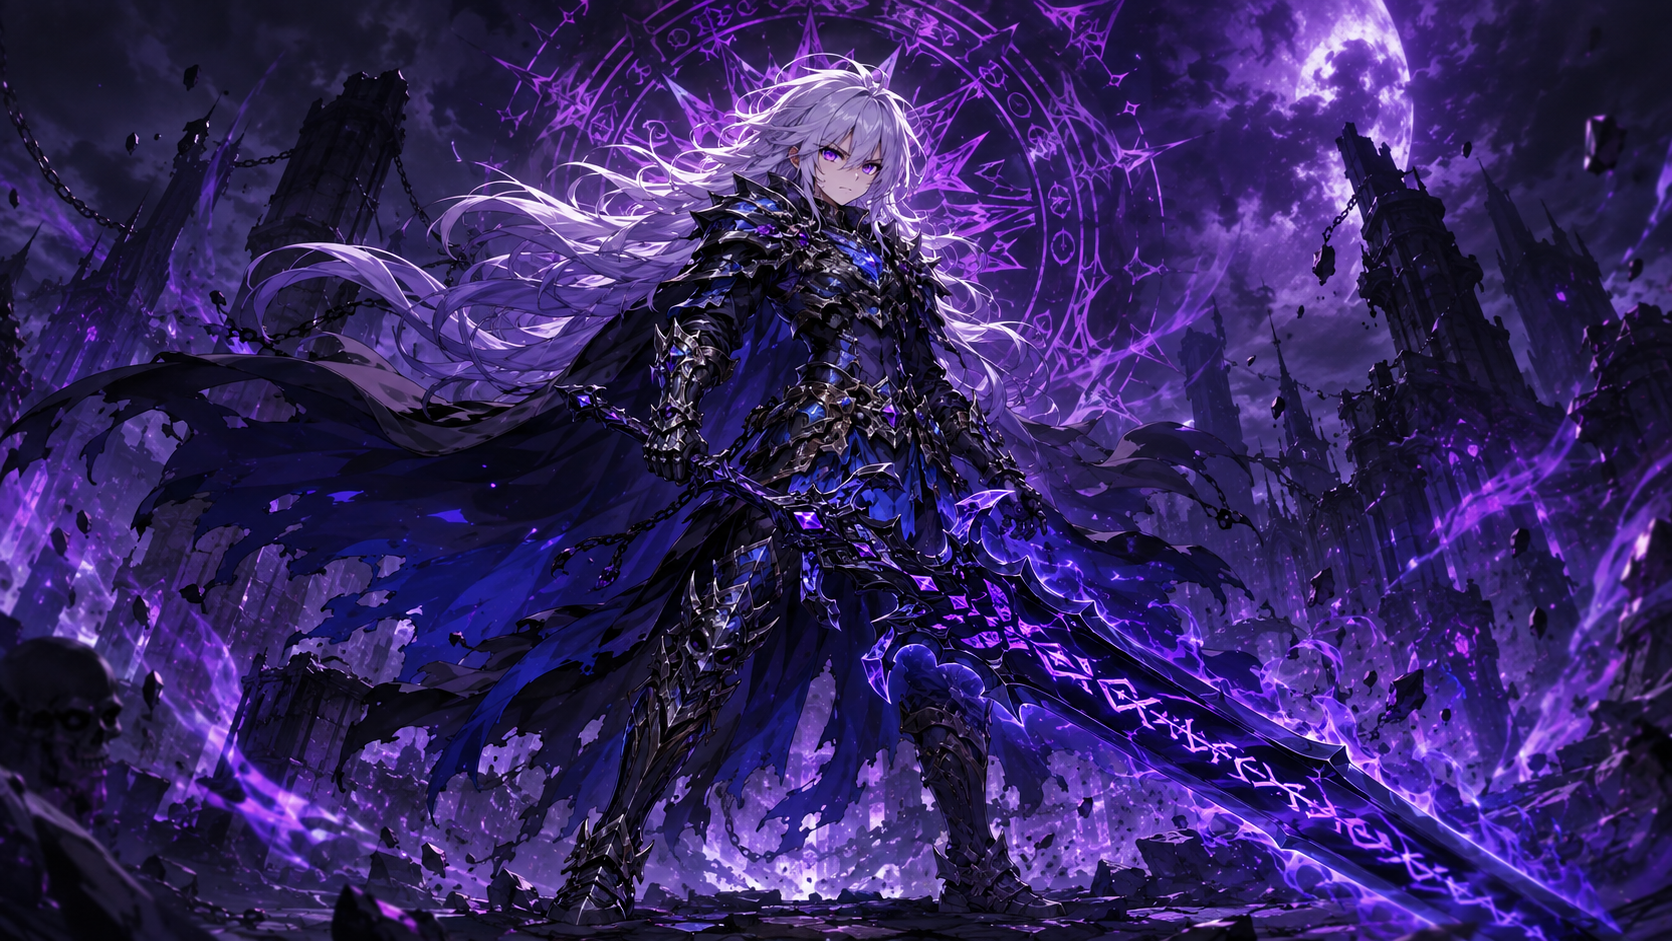
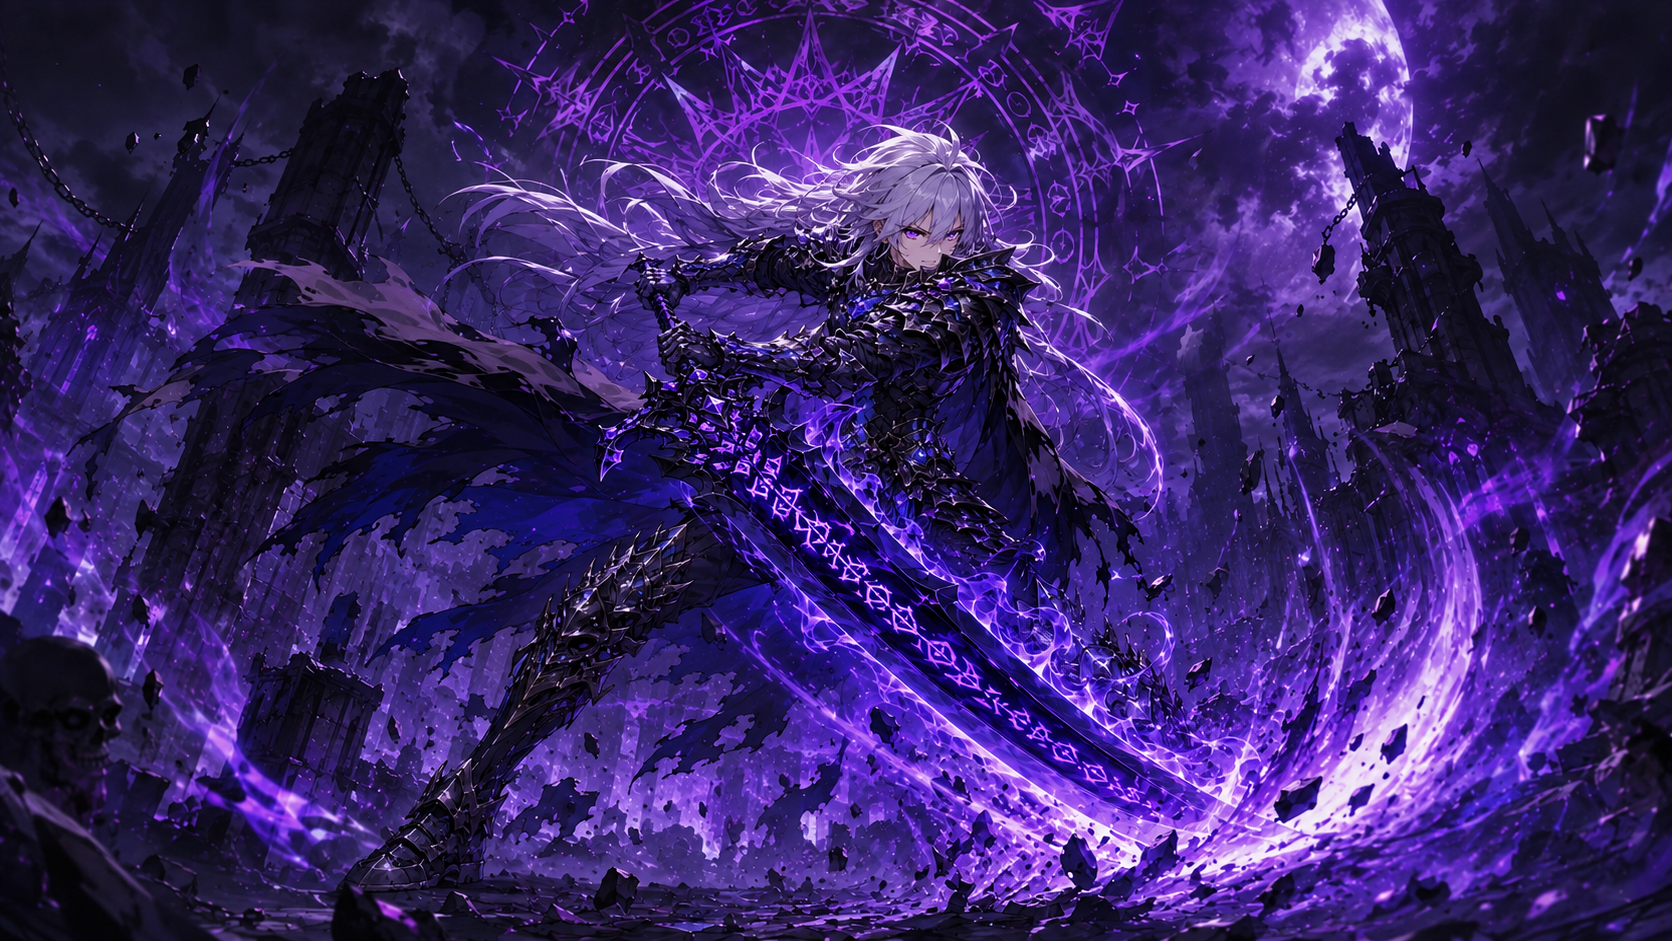
死亡騎士立繪換新版主視覺 + 關卡地圖改用真實手繪節點對位地圖 (v4.21.2-4.22.0)
- death_knight 立繪全遊戲替換為新版主視覺，重新校正臉部裁切位置
- 森林遺跡關卡地圖改用 4 張手繪節點對位地圖當背景，20 關座標逐一量測對齊，
  取代先前純 CSS 畫的蛇形路徑與連接線

diff --git a/src/screens/CampaignMapScreen.tsx b/src/screens/CampaignMapScreen.tsx
@@ -20,11 +20,22 @@ const OBJECTIVE_ICON: Record<StageObjectiveType, AsterVowIconName> = {
   elimination: 'stage-elimination', survival: 'stage-survival', defense: 'stage-defense', hunt: 'stage-hunt',
   destroy: 'stage-destroy', collection: 'stage-collection', escape: 'stage-escape', boss: 'stage-boss',
 }
-// 蜿蜒路徑左右交錯的位置循環，跟星界圖鑑預覽用的排法一致
-const MAP_POSITIONS = ['center', 'right', 'left', 'right', 'left', 'center'] as const
-// 節點實際貼齊的橫向位置粗略換算成 0-100 座標，連接線斜著畫過去對到節點，
-// 不能寫死在正中央——上一版連線固定在 50%，節點改成貼邊之後線就對不上了。
-const MAP_POS_X: Record<(typeof MAP_POSITIONS)[number], number> = { left: 15, center: 50, right: 85 }
+// 森林遺跡節點對位地圖（2026-08）：4 張手繪地圖，每張對應 5 關，直接當
+// 背景鋪滿，節點座標是拿 10×15 網格逐張比對圖上空地中心讀出來的百分比，
+// 不是憑感覺排的——地圖本身的石板小徑已經把 20 個空地連成一條蜿蜒路徑，
+// 不需要再疊一層 CSS 畫的連接線。
+const MAP_SEGMENT_IMAGES = [
+  '/assets/campaign/forest_ruins_map_1.jpg',
+  '/assets/campaign/forest_ruins_map_2.jpg',
+  '/assets/campaign/forest_ruins_map_3.jpg',
+  '/assets/campaign/forest_ruins_map_4.jpg',
+]
+const STAGE_MAP_POS: Record<number, { x: number; y: number }> = {
+  1: { x: 43, y: 16 }, 2: { x: 70, y: 27 }, 3: { x: 27, y: 35 }, 4: { x: 72, y: 57 }, 5: { x: 28, y: 75 },
+  6: { x: 40, y: 9 }, 7: { x: 37, y: 30 }, 8: { x: 72, y: 45 }, 9: { x: 27, y: 58 }, 10: { x: 62, y: 83 },
+  11: { x: 32, y: 8 }, 12: { x: 57, y: 28 }, 13: { x: 38, y: 47 }, 14: { x: 68, y: 65 }, 15: { x: 30, y: 85 },
+  16: { x: 27, y: 20 }, 17: { x: 68, y: 16 }, 18: { x: 50, y: 43 }, 19: { x: 27, y: 65 }, 20: { x: 70, y: 83 },
+}
 
 /** 大廳關卡預覽卡（2026-08）共用這個星數列，見 AdventureReadyScreen.tsx。 */
 export function StarRow({ stars }: { stars: number }) {
@@ -77,39 +88,41 @@ export default function CampaignMapScreen({ meta, heroId, onSelectStage, onBack 
         </div>
       </div>
 
-      {/* 關卡地圖 2026-08 視覺重做：左右交錯往上爬的蜿蜒路徑（取代直式/
-          雙欄清單），最後一關（篇章最終王）額外套一層最大徽章樣式。解鎖／
-          三星進度資料完全沒動，只是排列方式改了。 */}
+      {/* 關卡地圖 2026-08 節點對位重做：4 張手繪地圖直接當每段背景，取代
+          先前純 CSS 畫的蜿蜒路徑。解鎖／三星進度資料完全沒動，只是節點改成
+          貼著地圖上量好的空地座標，路徑本身就是圖裡畫好的石板小徑。 */}
       <div className="cms-map">
-        {stages.map((stage, i) => {
-          const prog = getStageProgress(meta, stage.id)
-          const unlocked = isStageUnlocked(meta, stage.id)
-          const prevCleared = i === 0 || getStageProgress(meta, stages[i - 1].id).cleared
-          const isBoss = !!stage.boss
-          const isFinal = i === stages.length - 1
-          const pos = MAP_POSITIONS[i % MAP_POSITIONS.length]
-          const prevPos = i > 0 ? MAP_POSITIONS[(i - 1) % MAP_POSITIONS.length] : pos
+        {MAP_SEGMENT_IMAGES.map((imgSrc, seg) => {
+          const segStages = stages.slice(seg * 5, seg * 5 + 5)
+          if (segStages.length === 0) return null
           return (
-            <div key={stage.id} className={`cms-map-stage ${pos}`}>
-              {i > 0 && (
-                <svg className={`cms-map-connector${prevCleared ? ' lit' : ''}`} viewBox="0 0 100 100" preserveAspectRatio="none">
-                  <line x1={MAP_POS_X[prevPos]} y1="0" x2={MAP_POS_X[pos]} y2="100" />
-                </svg>
-              )}
-              <button
-                className={`cms-map-node${isFinal ? ' final' : isBoss ? ' boss' : ''}${unlocked ? '' : ' locked'}${prog.cleared ? ' cleared' : ''}`}
-                disabled={!unlocked}
-                onClick={() => unlocked && handleSelectStage(stage.id)}
-              >
-                <span className="cms-map-badge">
-                  {unlocked
-                    ? <AsterVowIcon name={isBoss ? 'stage-boss' : OBJECTIVE_ICON[stage.objective.type]} size={isFinal ? 30 : isBoss ? 24 : 18} />
-                    : <AsterVowIcon name="system-lock" size={18} />}
-                  {!isFinal && <span className="cms-map-num">{stage.stageNumber}</span>}
-                </span>
-                <span className="cms-map-name">{stage.name}</span>
-                {unlocked && <StarRow stars={prog.stars} />}
-              </button>
+            <div key={seg} className="cms-map-segment" style={{ backgroundImage: `url(${imgSrc})` }}>
+              {segStages.map((stage, localI) => {
+                const i = seg * 5 + localI
+                const prog = getStageProgress(meta, stage.id)
+                const unlocked = isStageUnlocked(meta, stage.id)
+                const isBoss = !!stage.boss
+                const isFinal = i === stages.length - 1
+                const pos = STAGE_MAP_POS[stage.stageNumber] ?? { x: 50, y: 50 }
+                return (
+                  <button
+                    key={stage.id}
+                    className={`cms-map-node${isFinal ? ' final' : isBoss ? ' boss' : ''}${unlocked ? '' : ' locked'}${prog.cleared ? ' cleared' : ''}`}
+                    style={{ left: `${pos.x}%`, top: `${pos.y}%` }}
+                    disabled={!unlocked}
+                    onClick={() => unlocked && handleSelectStage(stage.id)}
+                  >
+                    <span className="cms-map-badge">
+                      {unlocked
+                        ? <AsterVowIcon name={isBoss ? 'stage-boss' : OBJECTIVE_ICON[stage.objective.type]} size={isFinal ? 30 : isBoss ? 24 : 18} />
+                        : <AsterVowIcon name="system-lock" size={18} />}
+                      {!isFinal && <span className="cms-map-num">{stage.stageNumber}</span>}
+                    </span>
+                    <span className="cms-map-name">{stage.name}</span>
+                    {unlocked && <StarRow stars={prog.stars} />}
+                  </button>
+                )
+              })}
             </div>
           )
         })}

diff --git a/src/styles.css b/src/styles.css
@@ -5116,21 +5116,19 @@ h1, h2, h3, p { margin: 0; }
 }
 .cms-milestone-label { font-size: 0.68rem; color: #88a0c0; }
 
-/* 關卡地圖 2026-08 視覺重做：左右交錯往上爬的蜿蜒路徑，取代直式/雙欄清單 */
-.cms-map { position: relative; padding: 30px 16px 40px; }
-.cms-map-stage { position: relative; display: flex; align-items: center; margin-bottom: 22px; min-height: 64px; }
-/* 用 justify-content:flex-end/flex-start 把節點推到那一排的最右/最左（留一點
-   padding 當邊界），不是「往中間偏一點」——原本用 padding-left:44% 只比正中央
-   偏移了幾像素，跟 center 幾乎長得一樣，蛇形效果等於沒做出來。 */
-.cms-map-stage.right { justify-content: flex-end; padding-right: 6%; }
-.cms-map-stage.left { justify-content: flex-start; padding-left: 6%; }
-.cms-map-stage.center { justify-content: center; }
-.cms-map-connector { position: absolute; left: 0; right: 0; bottom: 100%; width: 100%; height: 22px; overflow: visible; }
-.cms-map-connector line { stroke: rgba(255,255,255,.2); stroke-width: 2; stroke-dasharray: 3 5; vector-effect: non-scaling-stroke; }
-.cms-map-connector.lit line { stroke: #ffd94a; }
+/* 關卡地圖 2026-08 節點對位重做：4 張手繪地圖（每張 5 關）直接當每段背景，
+   節點貼著圖上量好的空地座標用絕對定位疊上去，取代先前純 CSS 畫的蛇形路徑。
+   石板小徑是圖裡畫好的，不用再疊一層連接線。 */
+.cms-map { position: relative; display: flex; flex-direction: column; gap: 0; padding: 8px 0 24px; }
+.cms-map-segment {
+  position: relative; width: 100%; aspect-ratio: 1024 / 1536;
+  background-size: 100% 100%; background-repeat: no-repeat; background-position: center;
+  border-radius: 10px; overflow: hidden;
+}
 
 .cms-map-node {
-  position: relative; z-index: 1; display: flex; flex-direction: column; align-items: center; gap: 4px;
+  position: absolute; transform: translate(-50%, -50%); z-index: 1;
+  display: flex; flex-direction: column; align-items: center; gap: 4px;
   background: none; border: none; color: inherit; padding: 0; cursor: pointer;
 }
 .cms-map-badge {

diff --git a/src/styles/astralLegacyRebuild.css b/src/styles/astralLegacyRebuild.css
@@ -401,8 +401,6 @@
 .cms-milestone-label { color: var(--av-muted); }
 
 .cms-map { max-width: 620px; margin: 0 auto; }
-.cms-map-connector line { stroke: rgba(149, 192, 255, .3); }
-.cms-map-connector.lit line { stroke: var(--av-gold) !important; }
 .cms-map-badge { border-color: rgba(133, 174, 237, .42) !important; background: linear-gradient(145deg, rgba(18, 43, 84, .85), rgba(7, 18, 43, .92)) !important; }
 .cms-map-num { background: var(--av-gold) !important; color: #241805 !important; }
 .cms-map-name { color: #eef5ff; }

diff --git a/src/screens/ArenaEquipmentScreen.tsx b/src/screens/ArenaEquipmentScreen.tsx
@@ -35,7 +35,7 @@ const PORTRAIT_POSITION: Record<string, string> = {
   archer: '57% 15%',
   dwarf: '43% 22%',
   bard: '48% 15%',
-  death_knight: '50% 12%',
+  death_knight: '55% 18%',
   engineer: '42% 15%',
   fighter: '46% 15%',
 }
